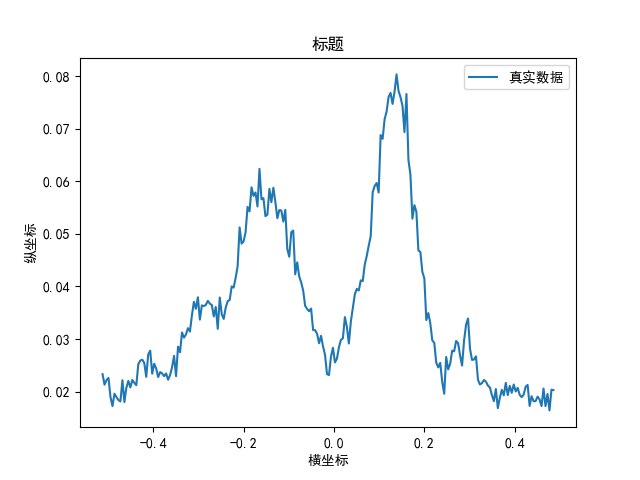
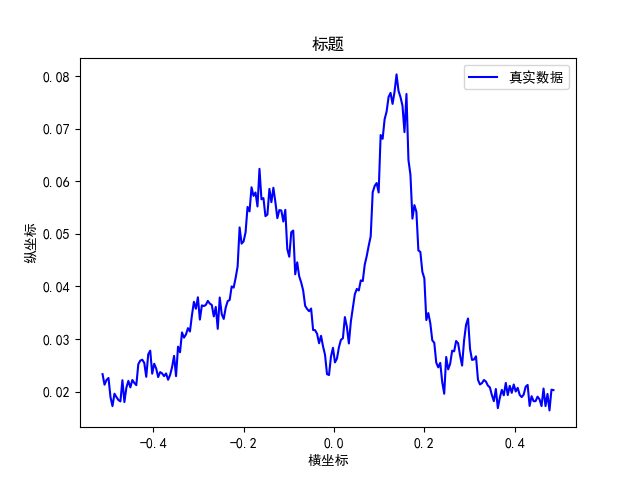
增加fitting 1维画图增加计算两个峰值间距

diff --git a/fitting.py b/fitting.py
@@ -1,0 +1,47 @@
+import numpy as np
+import matplotlib.pylab as pl
+from scipy.optimize import leastsq
+from matplotlib.pylab import mpl
+mpl.rcParams['font.sans-serif'] = ['SimHei'] #SimHei是黑体的意思
+mpl.rcParams['axes.unicode_minus'] = False #解决保存图像是负号'-'显示为方块的问题           
+
+# 文件名称
+file_name = '7.0cm1d'
+file_type = 'csv'
+file_full_name = file_name + '.' + file_type
+
+data = np.genfromtxt(file_full_name,delimiter=',',skip_header=2)
+print(data[:,0:2])
+x, y = data[:,0], data[:,1]
+
+# 归一化
+max_y = max(y)
+for i,j in enumerate(y):
+	y[i] = y[i]/max_y
+
+def func(x,p):
+    a, b, c, d= p
+    return a*np.exp(-(x-b)**2/(2*c**2)) + d
+
+def residuals(p, y, x):
+    return y - func(x, p)
+
+# 建议初始化值：纵范围/横范围 中心横坐标 最大横坐标 最小纵坐标 
+p0 = [1,0,0.4,0] # 初始参数
+plsq = leastsq(residuals, p0, args=(y,x))
+y2 = func(x,plsq[0])
+
+print (u"拟合参数:", plsq[0]) # 实验数据拟合后的参数
+
+# 设置标题  
+pl.title(u"标题")
+# 设置轴标签  
+pl.xlabel(u"横坐标")
+pl.ylabel(u"纵坐标")
+# 绘图 标签 颜色：color='red'
+pl.plot(x, y, 'b', label='Experiment data', linewidth=3)
+pl.plot(x, y2, 'r--',label='Fitting data', linewidth=2)
+pl.legend()
+# 保存图像
+pl.savefig("fit" + file_name + ".png")
+pl.show()

diff --git a/plot1D.py b/plot1D.py
@@ -2,7 +2,7 @@ import numpy as np
 import matplotlib.pyplot as plt 
 from matplotlib.pylab import mpl
 mpl.rcParams['font.sans-serif'] = ['SimHei'] #SimHei是黑体的意思
-mpl.rcParams['axes.unicode_minus'] = False #解决保存图像是负号'-'显示为方块的问题           
+mpl.rcParams['axes.unicode_minus'] = False #解决保存图像是负号'-'显示为方块的问题
 
 # 文件名称
 file_name = '7.0cm1d'
@@ -19,14 +19,37 @@ print(all_data)
 x_label = all_data[:,0]
 y_label = all_data[:,1]
 
+I = 0
+for i,each in enumerate(x_label):
+	if each>0:
+		I = i
+		break
+
+max_1 = max(y_label[0:I])
+max_2 = max(y_label[I:-1])
+
+half_max_1 = max_1/2
+half_max_2 = max_2/2
+
+for i,each in enumerate(y_label[0:I]):
+	if each == max_1:
+		max_1_x = x_label[i]
+
+for i,each in enumerate(y_label[I:-1]):
+	if each == max_2:
+		max_2_x = x_label[I+i]
+
+gap = max_2_x-max_1_x
+print("2r0:" + str(gap))
+
 # 设置标题  
 plt.title(u"标题")
 # 设置X轴标签  
 plt.xlabel(u"横坐标")
 # 设置Y轴标签  
 plt.ylabel(u"纵坐标")
-# 绘图 标签 颜色：color='red'
-plt.plot(x_label,y_label,label=u'真实数据')
+# 绘图 标签 颜色
+plt.plot(x_label,y_label,color='blue',label=u'真实数据')
 plt.legend()
 # 保存图像
 plt.savefig(file_name + ".png")
